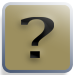
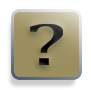
Updated more buttons in home. All buttons currently toggle screens.

diff --git a/NGM/styleSheet/styleSheetIndex.css b/NGM/styleSheet/styleSheetIndex.css
@@ -2,19 +2,21 @@ html{
 	background-color:#102C54;
 	background-repeat: no-repeat;
 	background-image: url(../images/backgrounds/background.png);
-	background-size:cover;
+	background-size:auto;
 	background-position: center 0%;
 }
 body {
 	margin: auto;
 	width:100%;
 	height: 100%;
+    max-width:1920px;
 
 }
 .headerButtons   {
-	height: 60px;
-	width: 60px;
-	padding: 1em;
+	height: 65px;
+	width: 65px;
+	padding-top: 1em;
+	padding-right:7px;
 	float: right;
 	opacity: .85;
 	clear:both;
@@ -73,7 +75,7 @@ body {
 	height: 3em;
 	width: 8em;
 	margin: 5px;
-	opacity:.75;
+	opacity:.85;
 }
 :hover.formButtons {opacity: 1;}
 
@@ -99,6 +101,19 @@ footer  {
 	display:inline;
 	
 }
-#searchIcon{
+.largeButtons {
+	height: auto;
+	width: 300px;
+	margin:5px;
     opacity:.85;
 }
+#headerContainer{
+	float:right;
+	margin-right:50px;
+	width:300px;
+    position:relative;
+}
+:hover.largeButtons{opacity:1;}
+
+#searchIcon{opacity:.85}
+#searchIcon:hover{opacity:1;}

diff --git a/NGM/styleSheet/styleSheetHome.css b/NGM/styleSheet/styleSheetHome.css
@@ -15,7 +15,7 @@
 	float: left;
 	width: 475px;
 	height: 475px;
-    margin:4em;
+    margin: 5.5em 4em 4em 4em;
 
 }
 #companyName{
@@ -36,7 +36,7 @@
 	position:relative;
     text-align: center;
 	float:left; 
-	margin: 4em;
+	margin: 5.5em 4em 4em 4em;
 	width: 475px;
 	height: 475px;
 }
@@ -58,4 +58,13 @@
 }
 #searchBar{
 	width:350px;
+}
+#homeNavigation{
+	position:absolute;
+	height: 400px;
+	right: 50px;
+	top:100px
+}
+a{
+	display: inline-block;
 }
